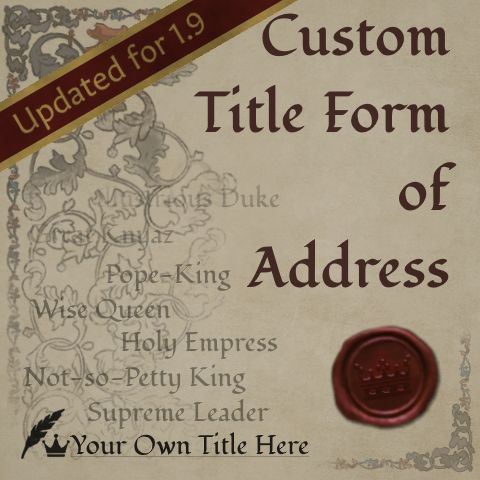
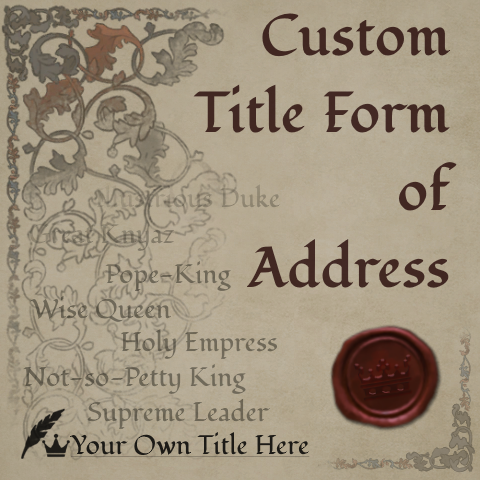
Merged in vanilla changes from v1.10 (Quill). Updated versions in descriptor.mod and README.md . Removed "updated for 1.9" ribbon from the thumbnail.

Changed region(s): [[0.0, 0.0, 0.625, 0.375]]

diff --git a/README.md b/README.md
@@ -8,7 +8,7 @@ _(a Crusader Kings III mod)_
 
 This mod allows you to enter and use your own form of address for your character based on their primary title.
 
-**Updated for CK3 version 1.9 (Lance).**
+**Updated for CK3 version 1.10 (Quill).**
 
 Sick of the standard "Duke", "Queen" or "Sultan"? Want a culturally specific term but there's no mod that adds it? Conquered half the map and feel that you should now be called "Great Super-God-Emperor" and not a boring old "Emperor"?
 With this mod you can now *address* ;) any of these problems.
